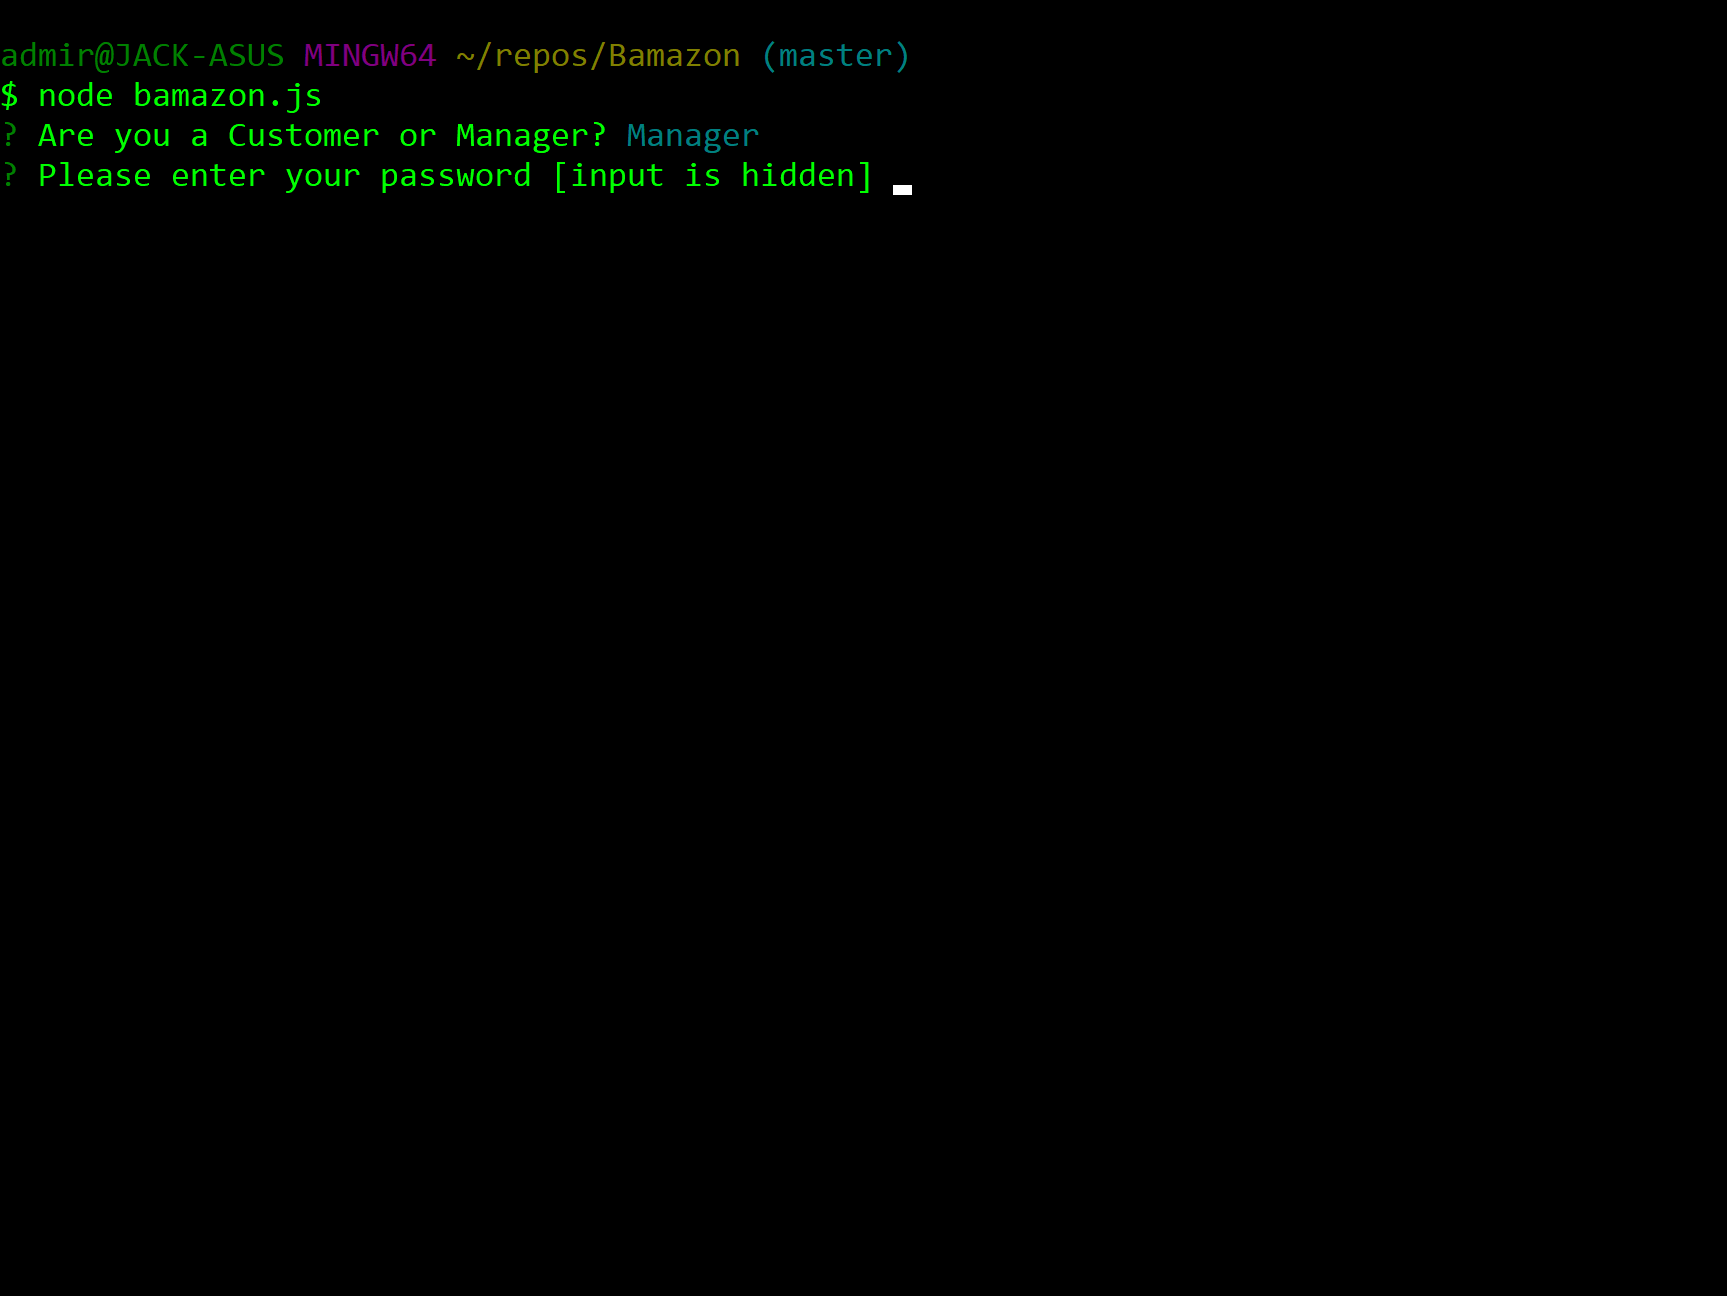
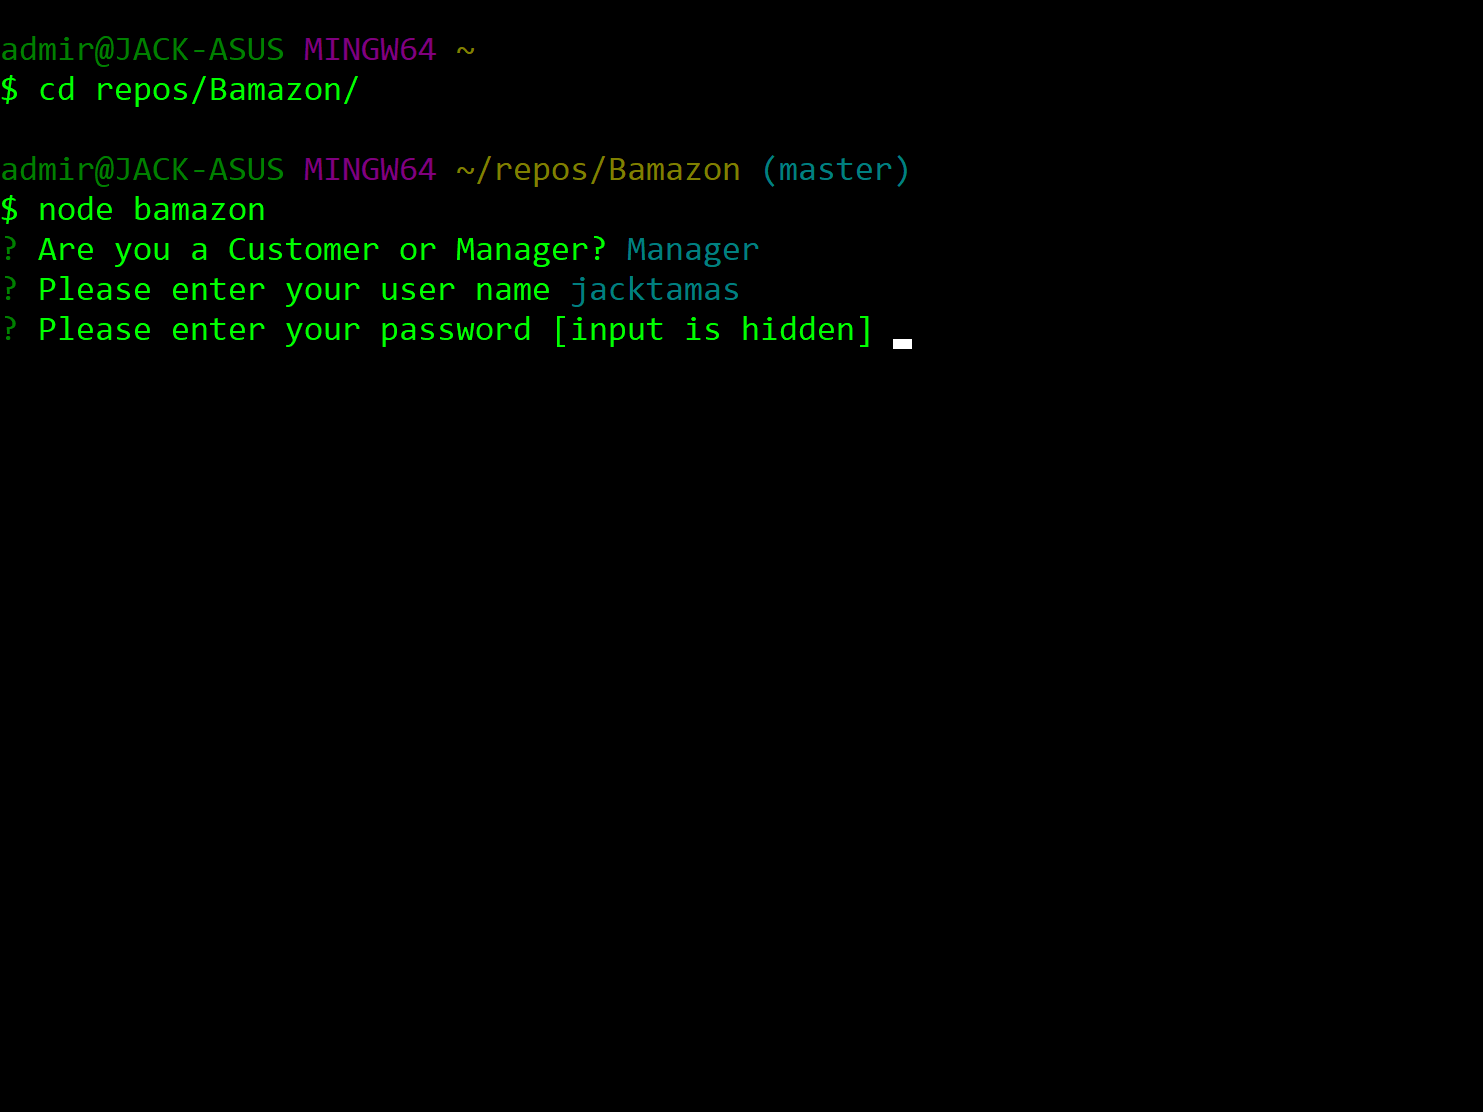
changed images

Changed region(s): [[0.0, 0.0306, 0.5893, 0.3058], [0.5893, 0.3058, 0.6204, 0.3363]]

diff --git a/bamazon.js b/bamazon.js
@@ -25,18 +25,23 @@ inquirer.prompt([
 function validate() {
   inquirer.prompt([
     {
+      type:'input',
+      name: 'username',
+      message:'Please enter your user name'
+    },
+    {
       type:'password',
       name: 'password',
       message:'Please enter your password'
     }
   ]).then(function(answer) {
-    if(answer.password == 'manager'){
+    if(answer.password == 'manager' && answer.username == answer.username){
       var date = new Date();
-      console.log('\n Welcome to the manager dashboard\n ',date.toDateString()+"\n ", date.toLocaleTimeString()+"\n -------------------------------------- \n");
+      console.log('\n \" Managers Dashboard\"\n Welcome back '+answer.username+'!\n ',date.toDateString()+"\n ", date.toLocaleTimeString()+"\n -------------------------------------- \n");
       require('./bamazonManager.js');
     }
     else {
-      console.log('\n Sorry your password does not match!');
+      console.log('\n Sorry your user name or password is wrong!');
     }
   })
 }

diff --git a/README.md b/README.md
@@ -4,8 +4,30 @@ This app helps customers order products from **Bamazon** and deplete stock from 
 
 ## Customers View
 Customers have to choose customer user to order through **Bamazon**
-![Customer View](./images/customer1.png =500x350)
+![Customer View](images/customer1.png)
 
 
 Then **Bamazon** will display all the products are available for sale, welcome customers, display the date and time at the moment of logging and start their order by asking first what's the *item id* that they would like to purchase.
-![Products available for sale](./images/customer2.png =500x350)
+![Products available for sale](images/customer2.png)
+
+
+Then customers have to enter how many they would like to purchase
+![Product quantity](images/customer4.png)
+
+
+If **Bamazon** does not have enough products
+![Product quantity](images/customer5.png)
+
+**Bamazon** will let customers know that the store does not have the quantity they asked for and let them know how many products are left in stock
+![Product quantity](images/customer6.png)
+
+If **Bamazon** have the quantity customers asks for will provide them with total of their purchase and ask how they would like to pay
+![Total amount and payment](images/customer7.png)
+
+After choosing payment method **Bamazon** will process the payment and thank customers for shopping at **Bamazon**.
+![Processing Payment](images/customer8.png)
+
+## Managers View
+
+When managers choose manager user to load the managers dashboard they have to enter their user name and password
+![Manager Login](images/manager1.png)
